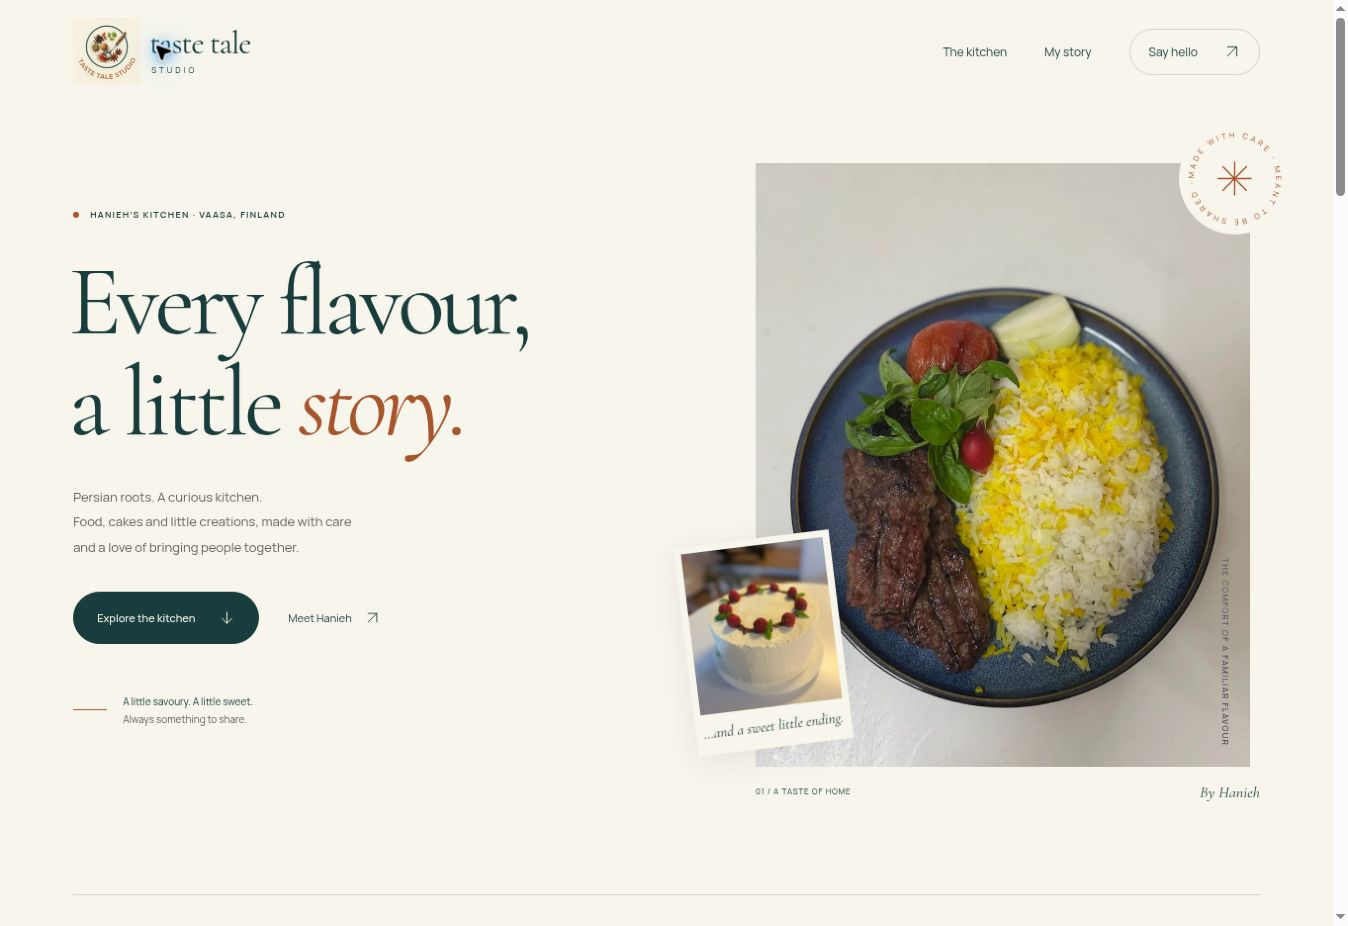
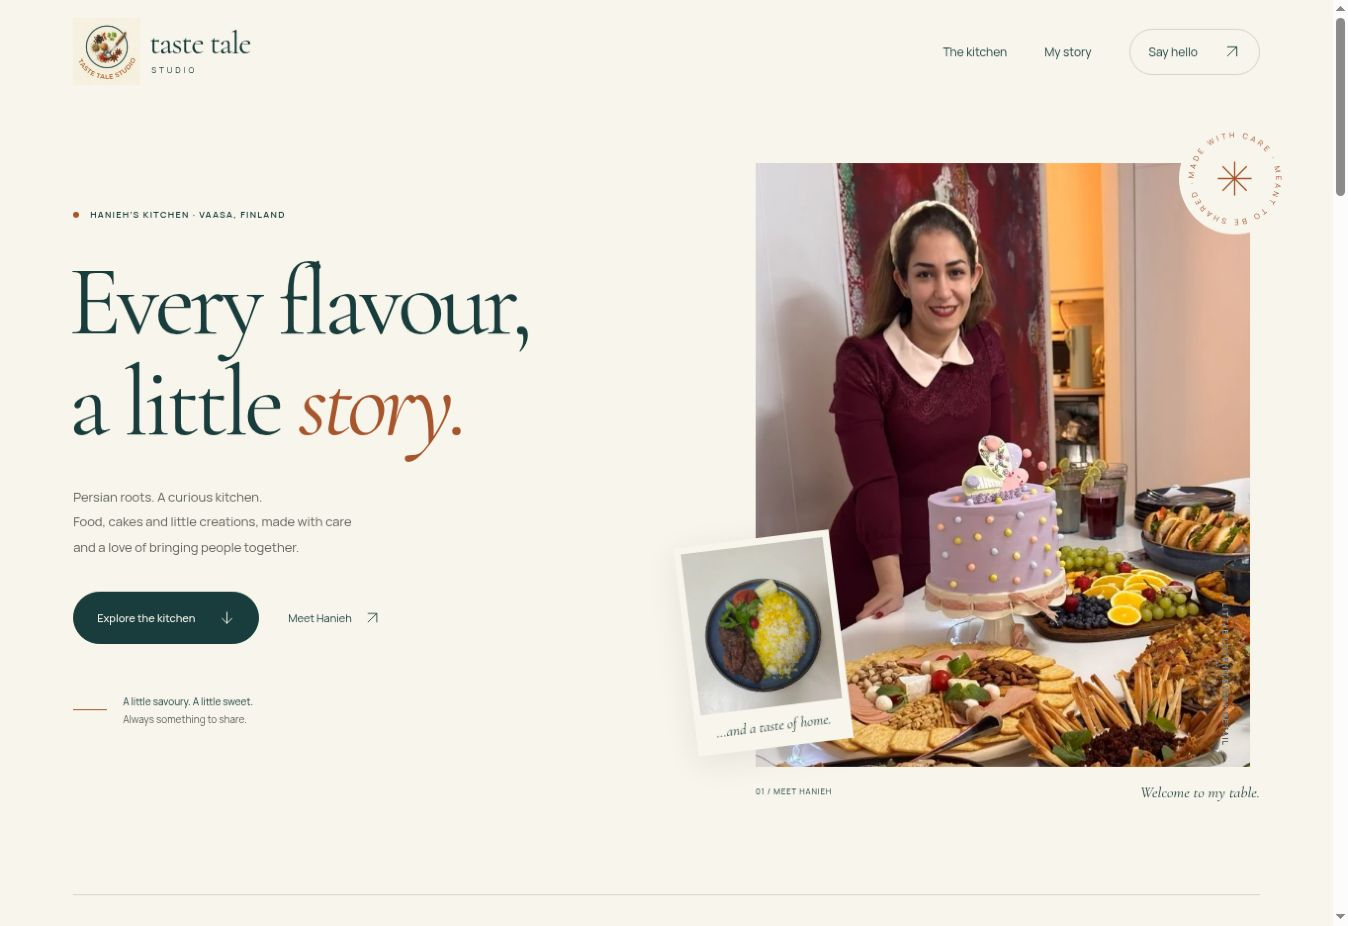
Introduce Hanieh with a carefully framed homepage portrait

Changed region(s): [[0.4985, 0.1512, 0.9347, 0.8769], [0.0935, 0.0302, 0.1246, 0.0907]]

diff --git a/styles.css b/styles.css
@@ -71,7 +71,7 @@ em{font-family:var(--serif);font-weight:400}
 .note-line{width:34px;height:1px;background:var(--rust)}
 .hero-visual{position:relative;padding-left:34px;margin-top:5px}
 .hero-frame{position:relative;aspect-ratio:.82;max-height:610px;background:var(--paper-deep);overflow:hidden}
-.hero-photo{width:100%;height:100%;object-fit:cover;object-position:50% 58%;transform:translate3d(0,var(--parallax,0px),0) scale(1.07)}
+.hero-photo{width:100%;height:100%;object-fit:cover;object-position:50% 16%;transform:translate3d(0,var(--parallax,0px),0) scale(1.07)}
 .hero-photo-label{position:absolute;right:18px;bottom:21px;writing-mode:vertical-rl;color:var(--paper);font-size:8px;letter-spacing:.18em;mix-blend-mode:difference}
 .hero-inset{width:158px;position:absolute;bottom:53px;left:-37px;transform:rotate(-7deg);background:var(--paper);padding:7px 7px 13px;box-shadow:0 8px 30px #14262215}
 .hero-inset img{aspect-ratio:.88;object-fit:cover;object-position:50% 54%;width:100%;height:auto}
@@ -200,7 +200,7 @@ h2{font-size:clamp(58px,5.7vw,82px);letter-spacing:-.035em}
   .main-nav{gap:17px;font-size:10px;flex-wrap:wrap;justify-content:flex-end}.main-nav .nav-hello{padding:8px 12px;gap:12px}.main-nav .nav-link{padding:4px 0}
   .js .menu-toggle{display:flex!important;align-items:center;gap:14px;font-size:11px;border:0;background:none;padding:15px 0 15px 15px}.menu-lines{display:block;position:relative;width:22px;height:10px;border-block:1px solid var(--ink);transition:transform .3s}.menu-toggle[aria-expanded=true] .menu-lines{border-bottom-color:transparent;transform:translateY(4px) rotate(45deg)}.menu-toggle[aria-expanded=true] .menu-lines::after{content:'';height:1px;width:22px;background:var(--ink);position:absolute;top:-1px;left:0;transform:rotate(90deg)}
   .js .main-nav{position:absolute;top:82px;left:0;width:100%;padding:23px var(--page-gutter) 27px;background:var(--paper);border-bottom:1px solid var(--line);flex-direction:column;align-items:stretch;gap:9px;visibility:hidden;opacity:0;transform:translateY(-8px);transition:opacity .2s,transform .3s,visibility .2s;font-size:16px}.js .main-nav.is-open{visibility:visible;opacity:1;transform:none}.js .main-nav .nav-link{padding:10px 0}.js .main-nav .nav-hello{justify-content:space-between;margin-top:7px;padding:12px 17px}
-  .hero{grid-template-columns:1fr;gap:46px;padding:35px 0 54px;min-height:auto}.hero-copy{padding:0}.hero-eyebrow{font-size:8px;letter-spacing:.12em;margin-bottom:25px}.hero h1{font-size:clamp(64px,12.5vw,90px);letter-spacing:-.04em;margin-left:-3px}.hero-description{font-size:12px;margin-top:26px;line-height:1.85}.hero-actions{gap:25px;margin-top:27px}.button{font-size:10px;padding:16px 20px;min-height:50px}.text-link{font-size:10px}.hero-note{display:none}.hero-visual{padding-left:24px;margin:12px 8px 0 20px}.hero-frame{aspect-ratio:.94;max-height:530px}.hero-inset{width:126px;left:-37px;bottom:48px;padding-bottom:12px}.hero-inset span{font-size:12px}.studio-seal{right:-18px;top:-30px;width:90px;height:90px}.seal-spark{inset:30px;width:30px;height:30px}.image-credit{font-size:7px;padding-top:17px}.image-credit>span:last-child{font-size:14px}
+  .hero{grid-template-columns:1fr;gap:28px;padding:35px 0 54px;min-height:auto}.hero-copy{padding:0}.hero-eyebrow{font-size:8px;letter-spacing:.12em;margin-bottom:25px}.hero h1{font-size:clamp(64px,12.5vw,90px);letter-spacing:-.04em;margin-left:-3px}.hero-description{font-size:12px;margin-top:26px;line-height:1.85}.hero-actions{gap:25px;margin-top:27px}.button{font-size:10px;padding:16px 20px;min-height:50px}.text-link{font-size:10px}.hero-note{display:none}.hero-visual{padding-left:24px;margin:12px 8px 0 20px}.hero-frame{aspect-ratio:.94;max-height:530px}.hero-inset{width:110px;left:-37px;bottom:48px;padding-bottom:12px}.hero-inset span{font-size:12px}.studio-seal{right:-18px;top:-30px;width:90px;height:90px}.seal-spark{inset:30px;width:30px;height:30px}.image-credit{font-size:7px;padding-top:17px}.image-credit>span:last-child{font-size:14px}
   .kitchen-notes{flex-direction:column;gap:11px;padding:24px 0;font-size:10px}.kitchen-notes .icon{width:10px;height:10px}.kitchen-notes em{font-size:20px;margin-left:5px}
   .kitchen-section{padding:65px 0 66px}.section-index{font-size:8px;margin-bottom:22px}.section-heading{flex-direction:column;align-items:flex-start;gap:24px;margin-bottom:28px}.section-heading h2{font-size:60px}.section-description{font-size:11px;line-height:1.9;padding:0}.gallery-toolbar{margin-bottom:25px;padding-bottom:12px}.gallery-filters{gap:21px;row-gap:3px}.gallery-filters button{font-size:10px;padding:10px 0}.gallery-filters sup{font-size:7px;margin-left:1px}.gallery-hint{display:none}.gallery{grid-template-columns:repeat(2,minmax(0,1fr));gap:29px 16px}.creation h3{font-size:23px;line-height:1.1}.creation-category{font-size:7px;letter-spacing:.08em;margin-top:6px}.creation-number{font-size:8px;padding-top:4px}.creation figcaption{padding-top:12px;gap:5px}.photo-action{width:32px;height:32px;bottom:10px;right:10px}.photo-action .icon{width:13px;height:13px}.gallery-bottom{margin-top:30px;flex-direction:column;gap:18px}.gallery-bottom p{font-size:9px}
   .story-section{padding:58px 0 62px}.story-inner{grid-template-columns:1fr;gap:55px}.story-visual{margin-right:25px}.story-image-wrap{aspect-ratio:1.08;max-height:440px}.story-logo{width:122px;height:122px;right:-27px;bottom:27px;box-shadow:0 0 0 6px var(--ink)}.story-image-note{font-size:21px;padding-top:22px}.story-copy .section-index{font-size:8px}.story-copy h2{font-size:60px;margin-bottom:24px}.story-copy>p:not(.eyebrow){max-width:100%;font-size:12px}.story-copy>p.story-intro{font-size:24px}.story-copy>p.story-closing{font-size:26px}.light-link{font-size:11px;margin-top:25px}

diff --git a/index.html b/index.html
@@ -67,15 +67,15 @@
       </div>
       <div class="hero-visual">
         <div class="hero-frame">
-          <img class="hero-photo" src="assets/images/saffron-rice-960.webp" srcset="assets/images/saffron-rice-480.webp 480w, assets/images/saffron-rice-960.webp 960w" sizes="(max-width: 700px) 90vw, (max-width: 1050px) 45vw, 520px" width="960" height="1280" alt="Saffron rice, kebab and fresh herbs on a deep blue ceramic plate" fetchpriority="high">
-          <span class="hero-photo-label">THE COMFORT OF A FAMILIAR FLAVOUR</span>
+          <img class="hero-photo" src="assets/images/hanieh-at-the-table-720.webp" srcset="assets/images/hanieh-at-the-table-480.webp 480w, assets/images/hanieh-at-the-table-720.webp 720w" sizes="(max-width: 380px) calc(100vw - 92px), (max-width: 700px) calc(100vw - 100px), (max-width: 1050px) 45vw, 520px" width="720" height="1280" alt="Hanieh behind a table of homemade food and a pastel butterfly celebration cake" fetchpriority="high">
+          <span class="hero-photo-label" aria-hidden="true">A LITTLE LOVE IN EVERY DETAIL</span>
         </div>
-        <div class="hero-inset" aria-hidden="true"><img src="assets/images/raspberry-cake-480.webp" width="480" height="640" alt="" loading="lazy"><span>…and a sweet little ending.</span></div>
+        <div class="hero-inset" aria-hidden="true"><img src="assets/images/saffron-rice-480.webp" width="480" height="640" alt="" loading="lazy"><span>…and a taste of home.</span></div>
         <div class="studio-seal" aria-hidden="true">
           <svg viewBox="0 0 120 120"><defs><path id="seal-path" d="M60,60 m-44,0 a44,44 0 1,1 88,0 a44,44 0 1,1 -88,0"/></defs><text><textPath href="#seal-path" textLength="274">MADE WITH CARE · MEANT TO BE SHARED · </textPath></text></svg>
           <svg class="seal-spark" viewBox="0 0 32 32"><use href="#spark"/></svg>
         </div>
-        <p class="image-credit"><span>01 / A TASTE OF HOME</span><span>By Hanieh</span></p>
+        <p class="image-credit"><span>01 / MEET HANIEH</span><span>Welcome to my table.</span></p>
       </div>
     </section>
 

diff --git a/README.md b/README.md
@@ -10,7 +10,7 @@ A bespoke, English-language cooking portfolio for Hanieh in Vaasa, Finland.
 
 Original HTML, CSS and vanilla JavaScript. No site template, framework, animation library, package dependency, third-party embed, tracker or cookie. Photography and the original Taste Tale Studio logo are supplied by the owner. Fonts are served from the same origin, with their open-source licenses included.
 
-The site includes a responsive editorial introduction, all 19 supplied photographs, three gallery categories, keyboard-accessible photo viewing, mobile swipe navigation, Hanieh’s story, and the supplied Instagram and YouTube links. Motion respects the visitor’s reduced-motion preference. Content and direct image links remain usable without JavaScript.
+The site includes a responsive editorial introduction with Hanieh’s portrait, all 19 supplied food photographs, three gallery categories, keyboard-accessible photo viewing, mobile swipe navigation, Hanieh’s story, and the supplied Instagram and YouTube links. Motion respects the visitor’s reduced-motion preference. Content and direct image links remain usable without JavaScript.
 
 ## Run locally
 
@@ -47,7 +47,7 @@ All asset paths are relative so the project works at `/taste-tale-studio/`. The 
 - **Photography:** add responsive WebP images in `assets/images/` and record the actual dimensions in `assets/images/manifest.json`. The burger photo’s largest source is 720 px wide, although its target-width filename ends in `-960.webp`; its HTML correctly declares `720w`.
 - **Fonts:** source information and full licenses are in `assets/fonts/`. A reproducible subset helper is in `scripts/fonts/`.
 
-Photographs are not retouched or cropped in the asset files. CSS frames crop only the thumbnails; the photo viewer shows each complete photograph. Image metadata is removed from the distributed files.
+Photographs are not retouched or cropped in the asset files. CSS frames crop the hero portrait and gallery thumbnails; the photo viewer shows each complete gallery photograph. The hero portrait has a top-biased focal point to keep Hanieh’s face and celebration cake visible across screen sizes, with 480 px and 720 px WebP versions and high loading priority. Image metadata is removed from the distributed files.
 
 ## Interaction details
 
